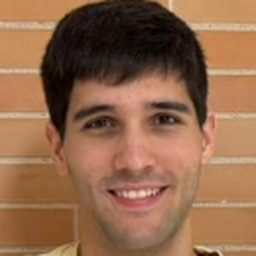
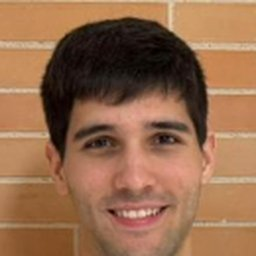
Fotos circulars amb marc i retall més ajustat

diff --git a/css/style.css b/css/style.css
@@ -63,11 +63,11 @@ section h2::before { content: counter(seccio, decimal-leading-zero); display: bl
 .graella { display: grid; gap: 2rem 2.5rem; grid-template-columns: 1fr; margin-bottom: 1rem; }
 @media (min-width: 700px) { .graella { grid-template-columns: repeat(2, 1fr); } }
 .targeta { border-top: 2px solid var(--ink); padding: 1rem 0 0; }
-.membre { display: grid; grid-template-columns: 6rem 1fr; gap: 1.25rem; align-items: start; }
-.foto { width: 6rem; height: 6rem; object-fit: cover; display: block; background: var(--soft); outline: 1px solid var(--line); outline-offset: -1px; }
+.membre { display: grid; grid-template-columns: 6.4rem 1fr; gap: 1.1rem; align-items: start; }
+.foto { width: 6rem; height: 6rem; object-fit: cover; display: block; border-radius: 50%; background: var(--soft); border: 3px solid var(--blanc); box-shadow: 0 0 0 2px var(--primary); margin: 2px; }
 .membre h3 { margin-bottom: .2rem; font-size: 1.2rem; }
 .membre p { margin-bottom: .9rem; line-height: 1.45; }
-@media (max-width: 380px) { .membre { grid-template-columns: 4.5rem 1fr; gap: 1rem; } .foto { width: 4.5rem; height: 4.5rem; } }
+@media (max-width: 380px) { .membre { grid-template-columns: 5rem 1fr; gap: 1rem; } .foto { width: 4.5rem; height: 4.5rem; } }
 
 /* Serveis */
 .num { display: inline-grid; place-items: center; flex: none; width: 2.5rem; height: 2.5rem; border-radius: 50%; background: var(--soft); color: var(--ink); font-family: var(--serif); font-weight: 600; font-size: 1.2rem; }
